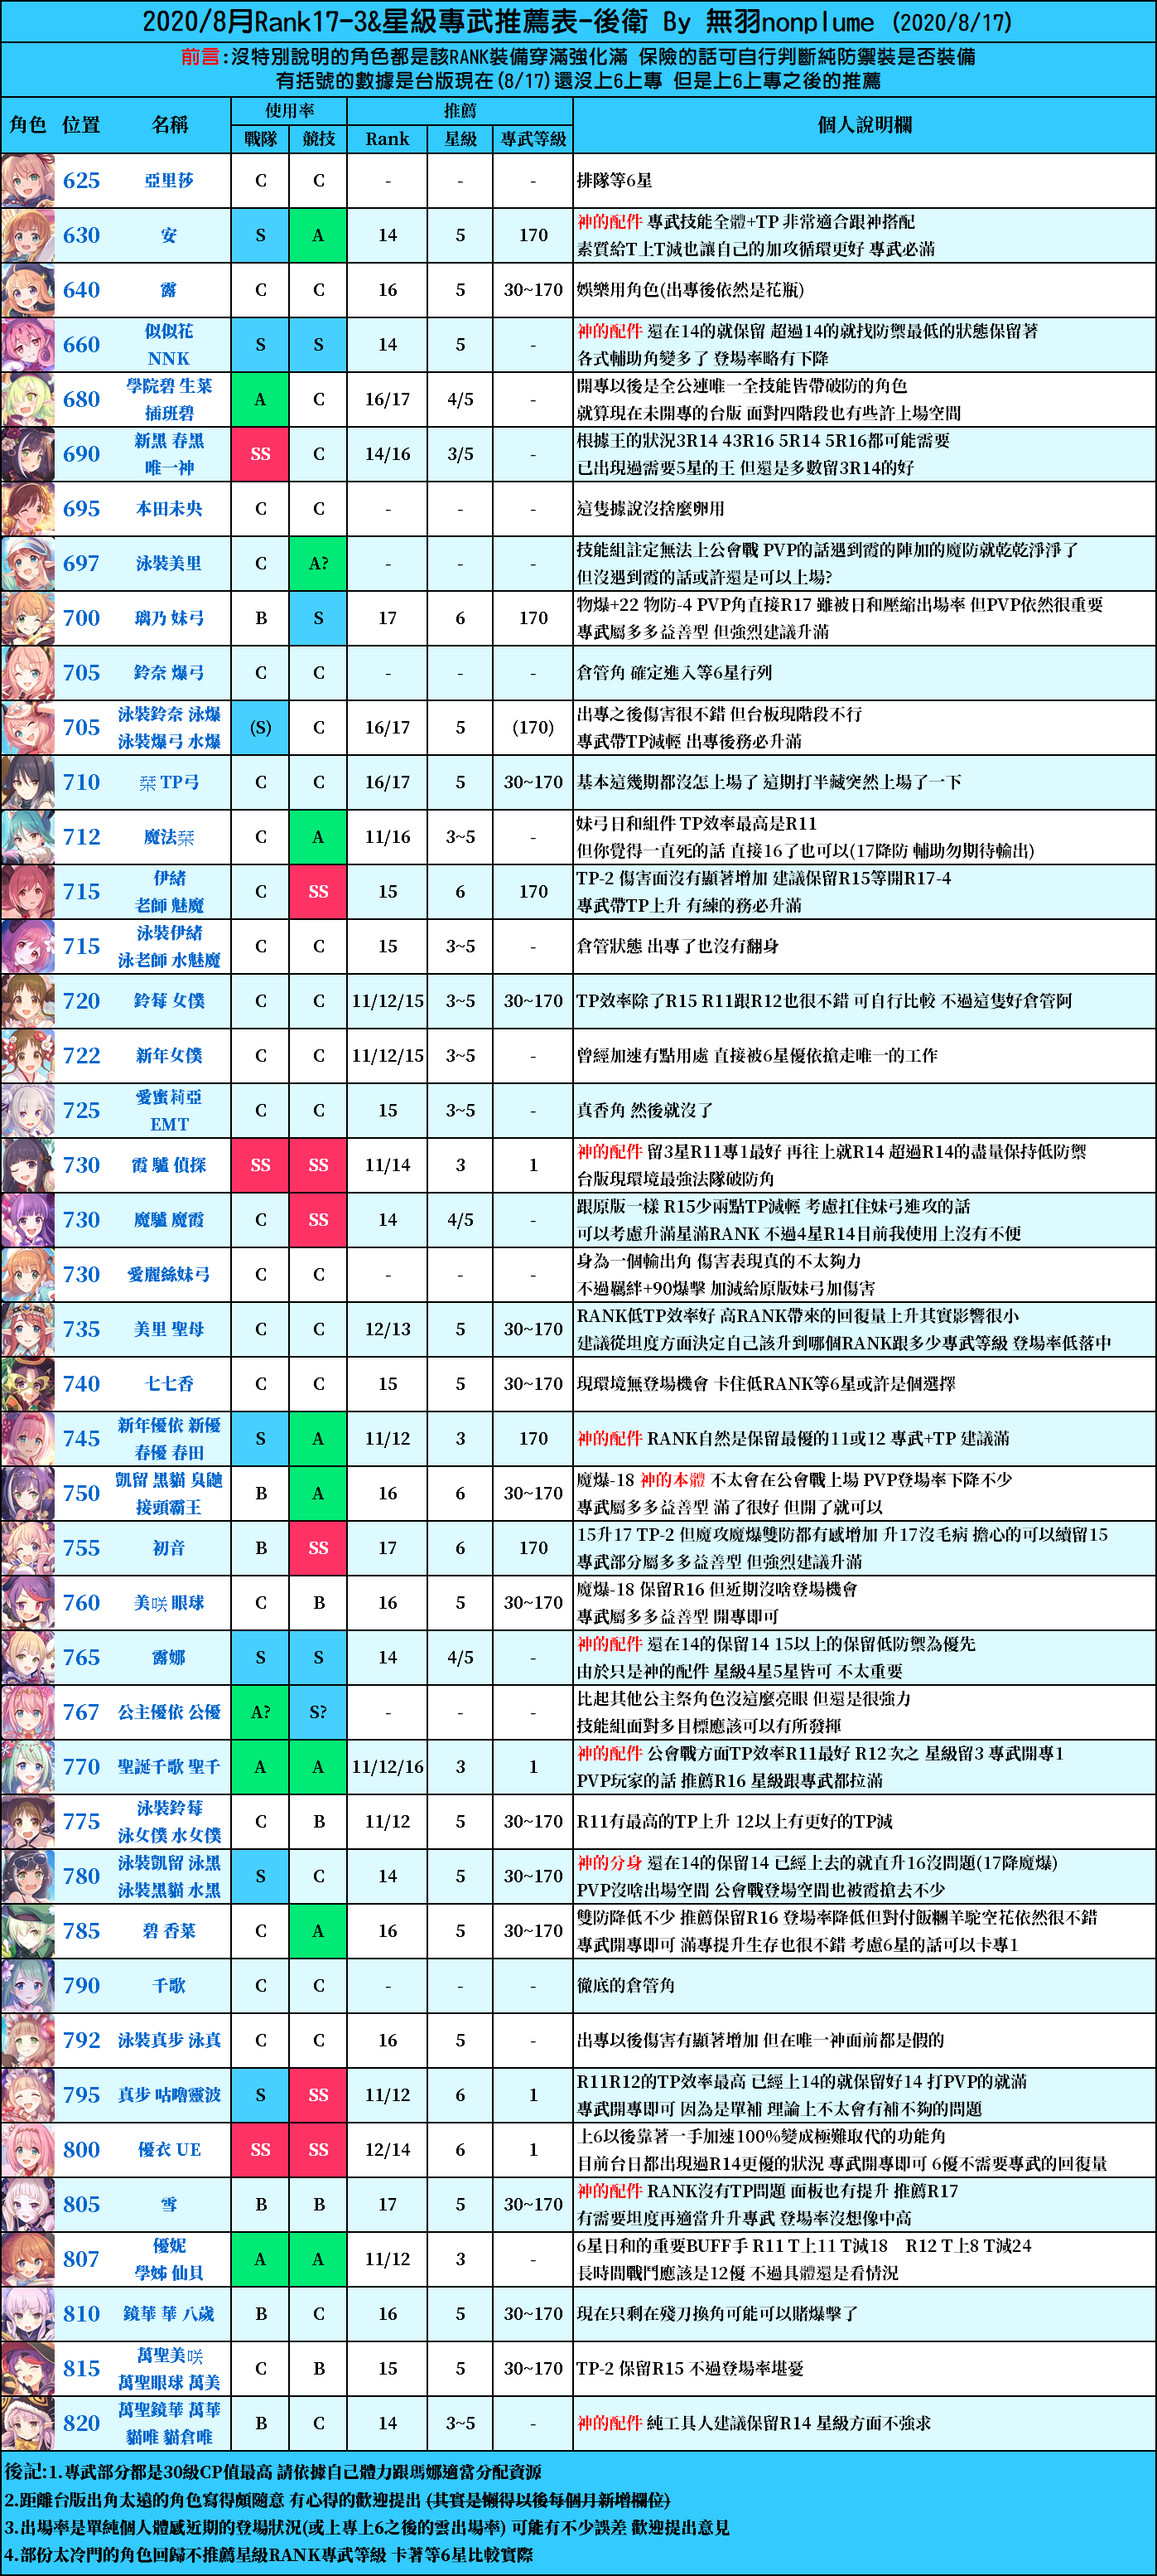
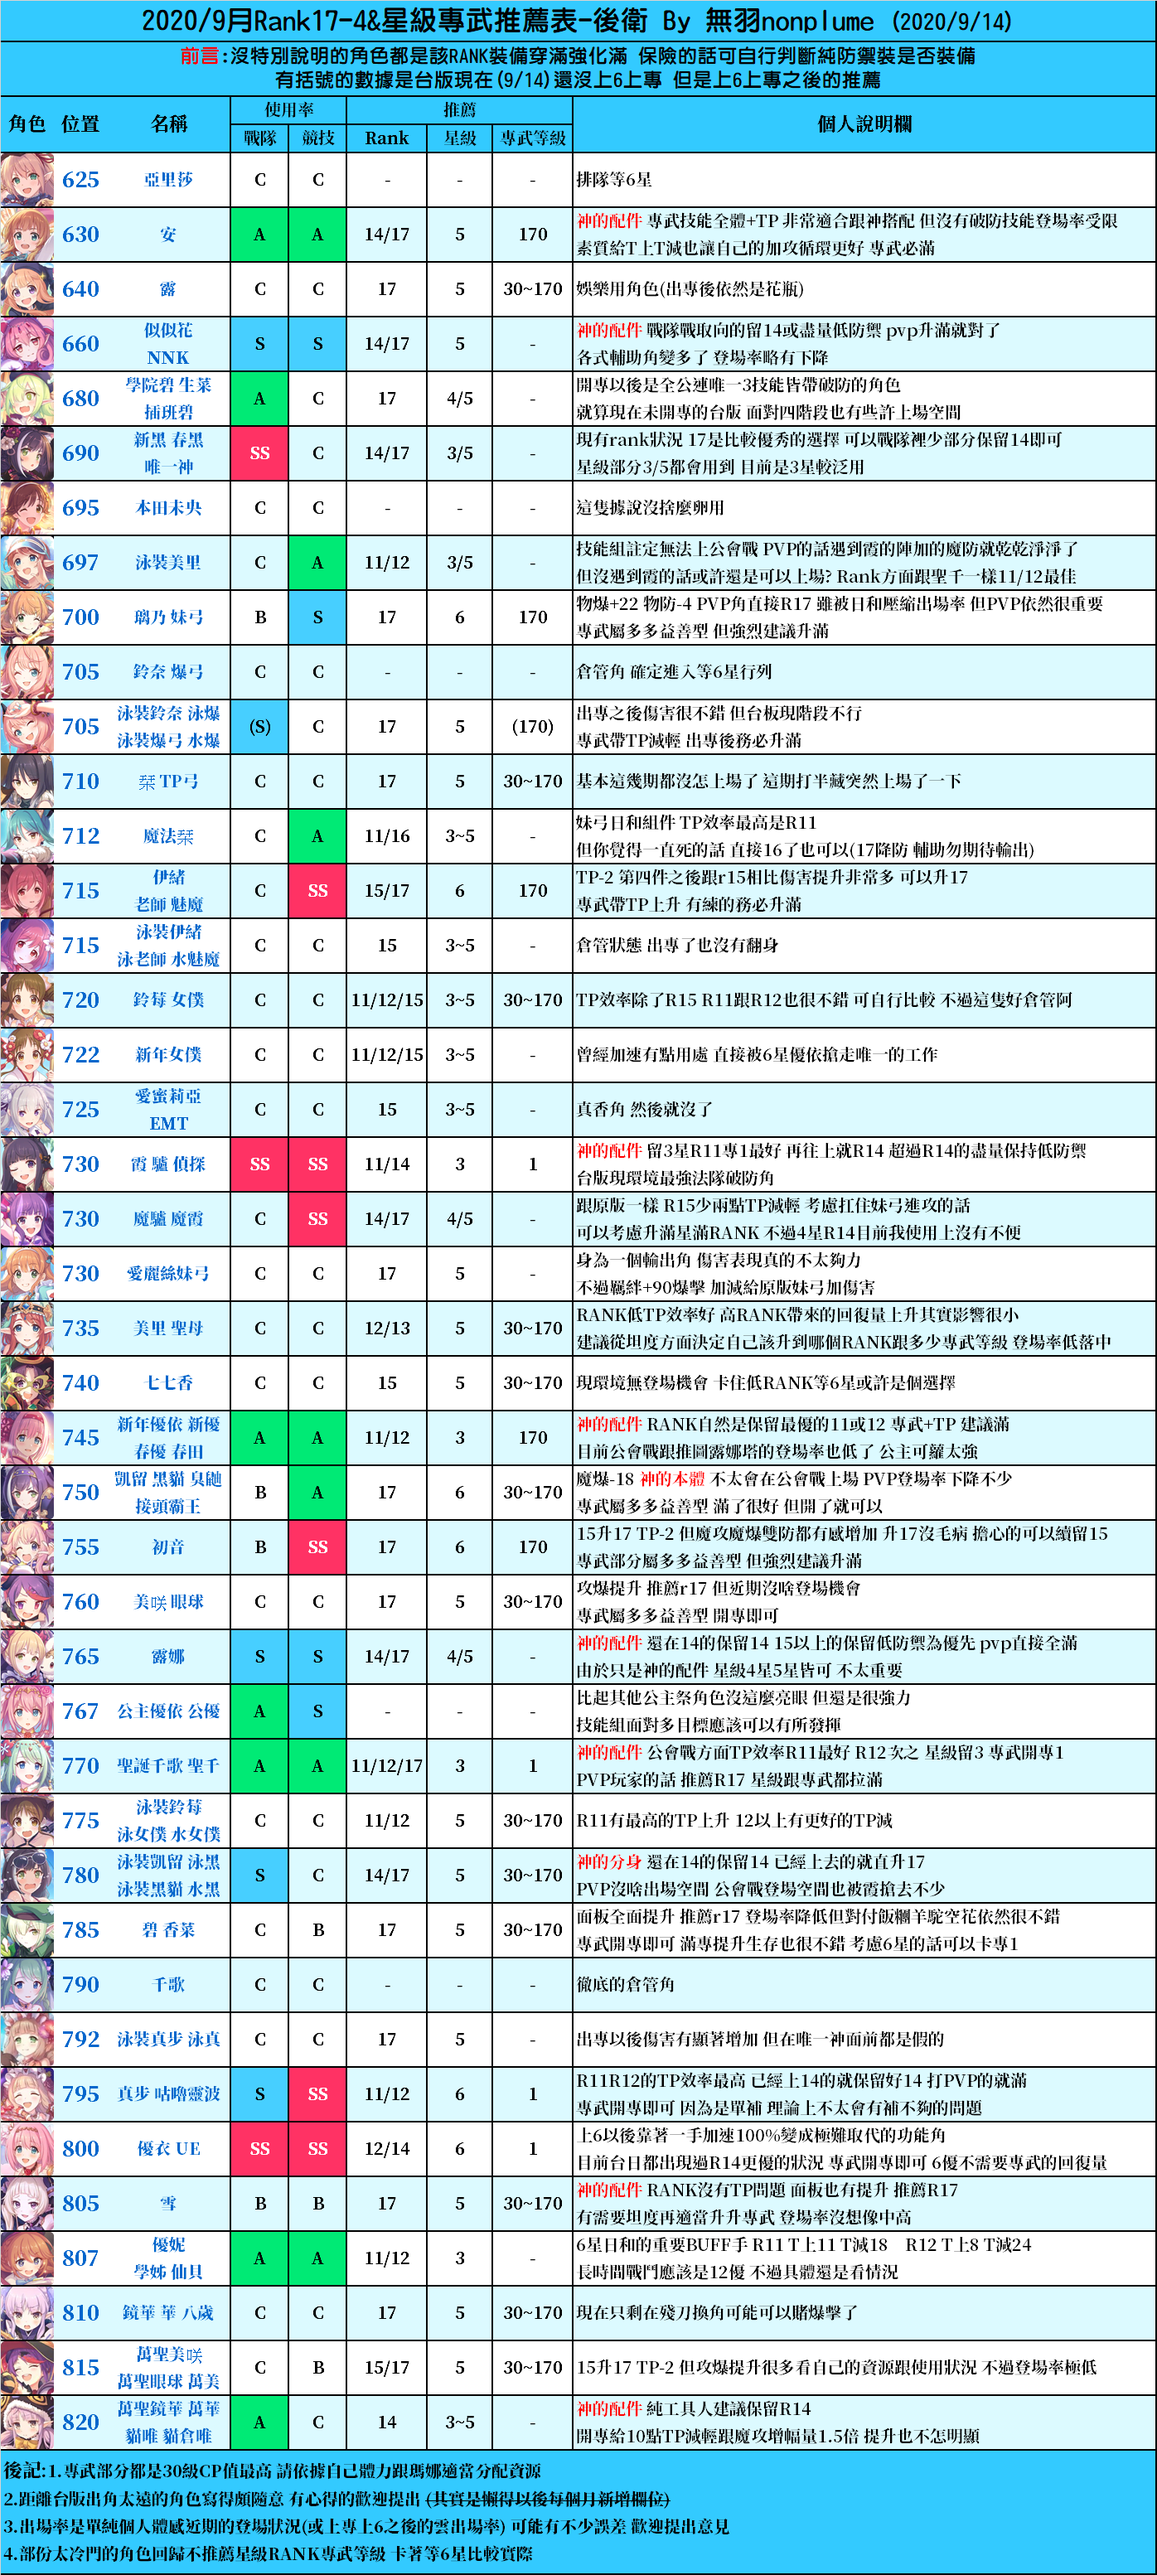
月度rank图更新

diff --git a/Chloe/group_chats/chats.py b/Chloe/group_chats/chats.py
@@ -42,27 +42,30 @@ async def decrease(session: NoticeSession):
 @on_command('前卫rank')
 async def _(session: CommandSession):
     path = os.path.join(os.path.dirname(__file__), "RF.png")
-    await session.send(f'無羽R17-3[CQ:image,file=file:///{path}]')
+    await session.send(f'無羽R17-4[CQ:image,file=file:///{path}]')
 
 
 @on_command('中卫rank')
 async def _(session: CommandSession):
     path = os.path.join(os.path.dirname(__file__), "RM.png")
-    await session.send(f'無羽R17-3[CQ:image,file=file:///{path}]')
+    await session.send(f'無羽R17-4[CQ:image,file=file:///{path}]')
 
 
 @on_command('后卫rank')
 async def _(session: CommandSession):
     path = os.path.join(os.path.dirname(__file__), "RB.png")
-    await session.send(f'無羽R17-3[CQ:image,file=file:///{path}]')
+    await session.send(f'無羽R17-4[CQ:image,file=file:///{path}]')
 
 
 @on_command('rank')
 async def _(session: CommandSession):
-    path1 = os.path.join(os.path.dirname(__file__), "Rank1.png")
-    path2 = os.path.join(os.path.dirname(__file__), "Rank2.png")
-    path3 = os.path.join(os.path.dirname(__file__), "Rank3.png")
-    await session.send(f'煌灵R17-3[CQ:image,file=file:///{path1}][CQ:image,file=file:///{path2}][CQ:image,file=file:///{path3}]')
+    path = os.path.join(os.path.dirname(__file__), "Rank.png")
+    await session.send(f'煌灵R17-4[CQ:image,file=file:///{path}]')
+
+    # path1 = os.path.join(os.path.dirname(__file__), "Rank1.png")
+    # path2 = os.path.join(os.path.dirname(__file__), "Rank2.png")
+    # path3 = os.path.join(os.path.dirname(__file__), "Rank3.png")
+    # await session.send(f'煌灵R17-3[CQ:image,file=file:///{path1}][CQ:image,file=file:///{path2}][CQ:image,file=file:///{path3}]')
 
 
 @on_command('黄骑充电')

diff --git a/Chloe/group_chats/scheduler.py b/Chloe/group_chats/scheduler.py
@@ -72,7 +72,7 @@ async def _():
     await scheduler_reminder(msg)
 
 # 2330
-@nonebot.scheduler.scheduled_job('cron', hour=23, minute=30)
-async def _():
-    msg = '现在23:30，骑士君该睡觉了！'
-    await scheduler_reminder(msg)
+# @nonebot.scheduler.scheduled_job('cron', hour=23, minute=30)
+# async def _():
+#     msg = '现在23:30，骑士君该睡觉了！'
+#     await scheduler_reminder(msg)
